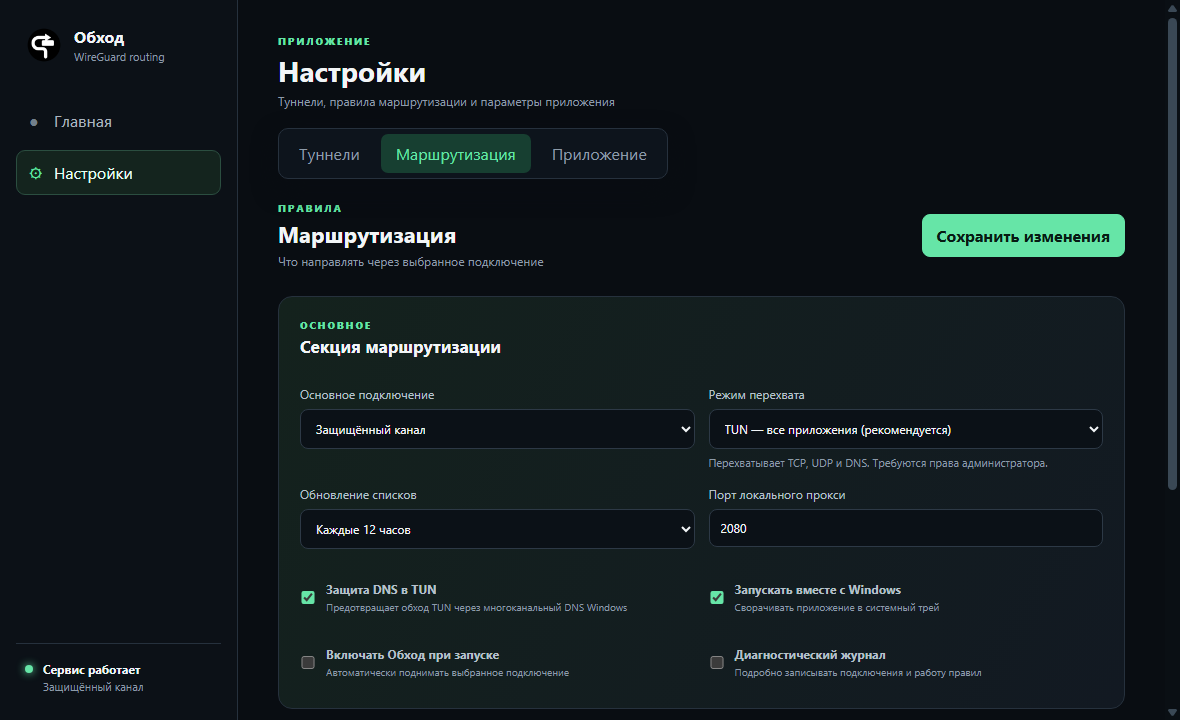
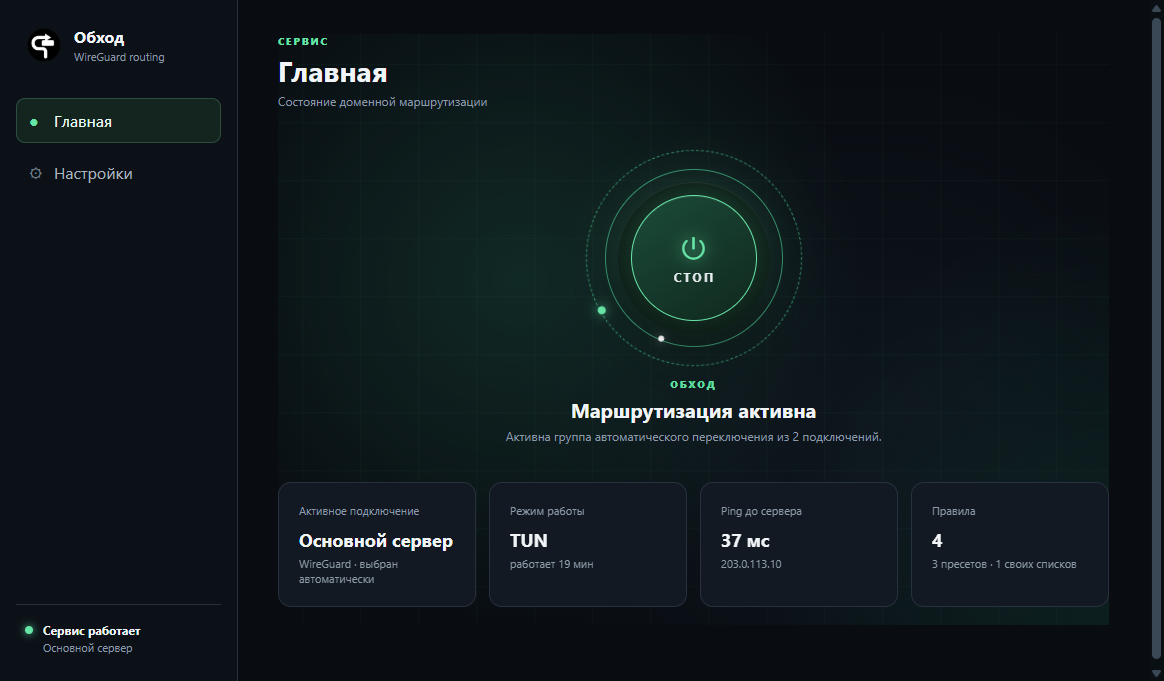
Refresh README and application screenshots

diff --git a/README.md b/README.md
@@ -12,71 +12,81 @@
   <a href="https://github.com/Ktoto59/obhod-releases/releases/latest"><strong>Скачать последнюю версию</strong></a>
 </p>
 
-## О программе
+## Что делает приложение
 
-«Обход» помогает управлять тем, через какое подключение направляется трафик выбранных доменов и подсетей. Правила применяются локально на компьютере: отмеченные ресурсы работают через защищённый туннель, а остальной трафик продолжает использовать обычное подключение.
+«Обход» направляет трафик выбранных доменов и подсетей через заданное защищённое подключение. Остальной трафик продолжает использовать обычный маршрут Windows. Все правила, профили и пользовательские списки настраиваются локально.
 
-Приложение подходит для разделения личного и рабочего трафика, защиты соединений в недоверенных сетях, централизованного управления сетевыми маршрутами и автоматического выбора доступного сервера. На главном экране отображаются активное подключение, выбранный сервер группы и прямой ping до него.
+Приложение показывает фактически работающий сервер, измеряет прямой ping до него и умеет автоматически переключаться на доступное резервное подключение.
 
 ![Главный экран Обхода](assets/screenshots/home.png)
 
-## Возможности
+## Основные возможности
 
 - выборочная маршрутизация доменов, IP-адресов и подсетей;
 - режимы TUN, системного прокси Windows и локального прокси;
-- профили WireGuard, VLESS/Reality, Shadowsocks и Trojan;
+- подключения WireGuard, VLESS/Reality, Shadowsocks и Trojan;
 - импорт WireGuard `.conf` и ссылок подключения;
-- готовые, локальные и внешние списки правил;
-- автоматическое переключение на доступный сервер при сбое активного подключения;
-- встроенный DNS-резолвер с UDP, TCP, DNS over TLS и DNS over HTTPS;
-- готовые DNS-профили Cloudflare, Google, Quad9, AdGuard и Control D;
+- готовые пресеты, собственные правила и внешние списки;
+- группа автоматического выбора с переключением при сбое сервера;
+- отображение активного сервера и прямого ping до него;
+- встроенный DNS-резолвер с UDP, TCP, DoT и DoH;
+- DNS-профили Cloudflare, Google, Quad9, AdGuard и Control D;
 - проверка фактической задержки DNS-запроса;
-- проверка конфигурации и доступности сервера перед сохранением;
-- защита DNS в TUN-режиме;
-- диагностический журнал с безопасным экспортом;
-- работа в системном трее и автозапуск;
-- ненавязчивые уведомления о новых версиях и ручное подтверждение загрузки обновления.
-
-## Управление маршрутами
-
-Основное подключение, режим перехвата и правила собраны в одном разделе. При включённом автоматическом переключении интерфейс показывает всю группу серверов вместо одного «основного» подключения. Дополнительные списки и параметры отказоустойчивости доступны в расширенных настройках.
-
-![Настройки маршрутизации](assets/screenshots/routing.png)
-
-## DNS и контроль запросов
-
-Встроенный резолвер обрабатывает DNS-запросы доменов из выбранных правил и направляет их через активное подключение или группу. Можно выбрать обычный DNS, DoT или DoH, настроить bootstrap-сервер и TTL ответа. Готовые профили автоматически подставляют корректные адреса и DoH-пути.
-
-Кнопка проверки отправляет настоящий DNS-запрос с текущего компьютера и показывает задержку и адрес ответившего сервера. Для защищённых протоколов дополнительно проверяются TLS и корректность ответа DoH.
+- безопасный диагностический журнал и экспорт;
+- системный трей, автозапуск и запуск соединения вместе с приложением;
+- ручная загрузка обновлений и настраиваемая автоматическая проверка.
 
 ## Подключения
 
-Можно создать профиль вручную, импортировать WireGuard-конфигурацию или вставить ссылку поддерживаемого протокола. Чувствительные параметры профилей хранятся локально в защищённом хранилище Windows.
+Профиль можно создать вручную, импортировать из WireGuard-конфигурации или добавить ссылкой. Несколько подключений разрешено объединить в группу автоматического выбора.
 
-![Настройка подключений](assets/screenshots/tunnels-empty.png)
+![Управление подключениями](assets/screenshots/tunnels.png)
+
+## Маршрутизация и отказоустойчивость
+
+В разделе маршрутизации выбираются режим перехвата, локальный порт и правила запуска. Если включена группа автоматического выбора, интерфейс показывает все серверы группы вместо одного «основного» подключения.
+
+При недоступности активного сервера `sing-box` продолжает проверки, выбирает доступный резервный маршрут и переводит на него существующие соединения. Пока сервис работает, выбранный трафик не выпускается напрямую при сбое туннеля.
+
+![Настройки маршрутизации](assets/screenshots/routing.png)
+
+## DNS-резолвер
+
+Встроенный резолвер обрабатывает запросы доменов из выбранных правил через активное подключение или группу. Доступны обычный DNS по UDP/TCP, DNS over TLS и DNS over HTTPS.
+
+Готовый профиль автоматически выставляет адрес сервера, bootstrap DNS и корректный DoH-путь. При необходимости можно указать собственный сервер и TTL. Кнопка проверки отправляет настоящий DNS-запрос и показывает задержку и IP ответившего сервера; для DoT и DoH также проверяется защищённое соединение.
+
+![Настройки DNS-резолвера](assets/screenshots/dns.png)
+
+## Обновления
+
+Приложение умеет искать новую версию после запуска и затем каждые шесть часов. Автоматический поиск можно отключить.
+
+Найденное обновление не скачивается без разрешения. На главной появляется компактное уведомление с номером версии, переходом в раздел «О приложении» и крестиком. Скрытие запоминается для конкретной версии. Загрузка и установка запускаются отдельными кнопками.
+
+![Раздел «О приложении»](assets/screenshots/about.png)
 
 ## Безопасность и приватность
 
 - ключи и параметры подключений защищаются средствами Windows DPAPI;
 - конфигурации и пользовательские списки остаются на компьютере;
-- диагностический экспорт скрывает ключи, пароли, UUID и ссылки подключений;
-- перед запуском конфигурация проверяется ядром `sing-box`;
-- при завершении работы приложение восстанавливает настройки системного прокси.
+- диагностический экспорт скрывает ключи, пароли, UUID и ссылки;
+- перед запуском конфигурация проверяется комплектным ядром `sing-box`;
+- при завершении работы восстанавливаются настройки системного прокси;
+- обновления не загружаются и не устанавливаются без подтверждения.
 
 ## Системные требования
 
 - Windows 10 или Windows 11, x64;
 - права администратора для TUN-режима;
-- подключение к сети для загрузки и обновления внешних списков.
+- подключение к сети для внешних списков, DNS-проверки и обновлений.
 
-## Установка и обновление
+## Установка
 
-1. Откройте раздел [Releases](https://github.com/Ktoto59/obhod-releases/releases/latest).
+1. Откройте [последний релиз](https://github.com/Ktoto59/obhod-releases/releases/latest).
 2. Скачайте `Obhod-Setup-<версия>.exe`.
 3. Запустите установщик и следуйте его инструкциям.
 
-Приложение может автоматически искать новые версии после запуска и затем каждые шесть часов. Загрузка не начинается без подтверждения пользователя: уведомление появляется на главной странице, а скачать и установить обновление можно в разделе «О приложении». Уведомление разрешено скрыть для конкретной версии.
+При обновлении сохраняются подключения, защищённые ключи, DNS-параметры и пользовательские правила.
 
-Туннели, ключи, DNS-параметры и пользовательские правила сохраняются при обновлении.
-
-> Этот репозиторий используется для публикации официальных установщиков и файлов автоматического обновления «Обхода».
+> Этот репозиторий используется для публикации официальных установщиков и файлов обновления «Обхода».